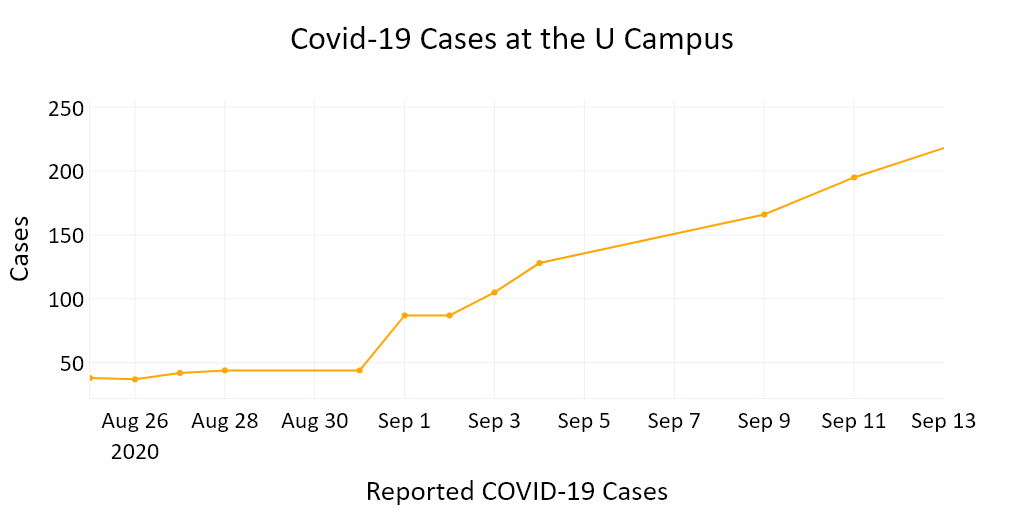
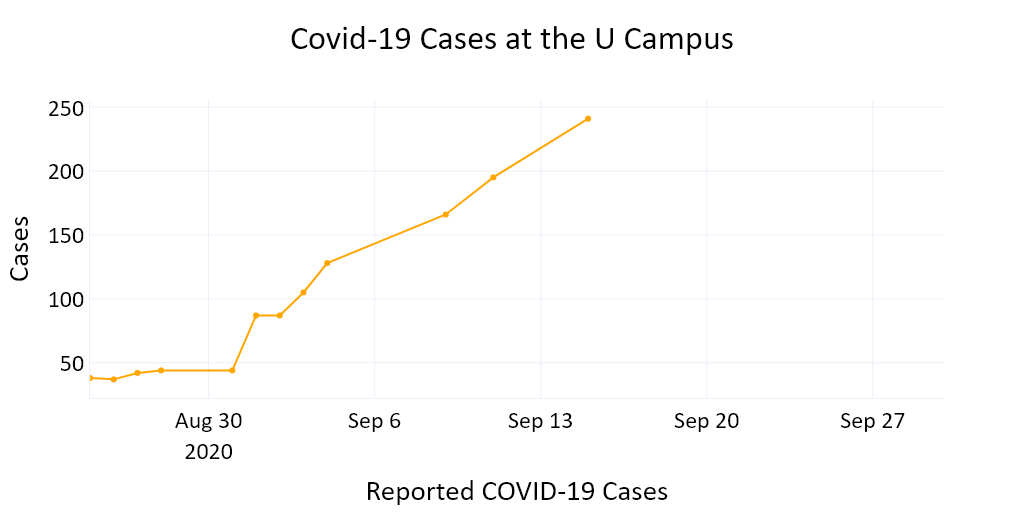
Update date range

diff --git a/dataplotter.py b/dataplotter.py
@@ -13,7 +13,7 @@ def plot_cases():
                     text=df['cases'], textposition='bottom center')])
     fig.update_layout(
         template="plotly_white",
-        xaxis_range=['2020-08-25', '2020-09-13'],
+        xaxis_range=['2020-08-25', '2020-09-30'],
         title={
             'text': "Covid-19 Cases at the U Campus",
             'y': 0.95,
